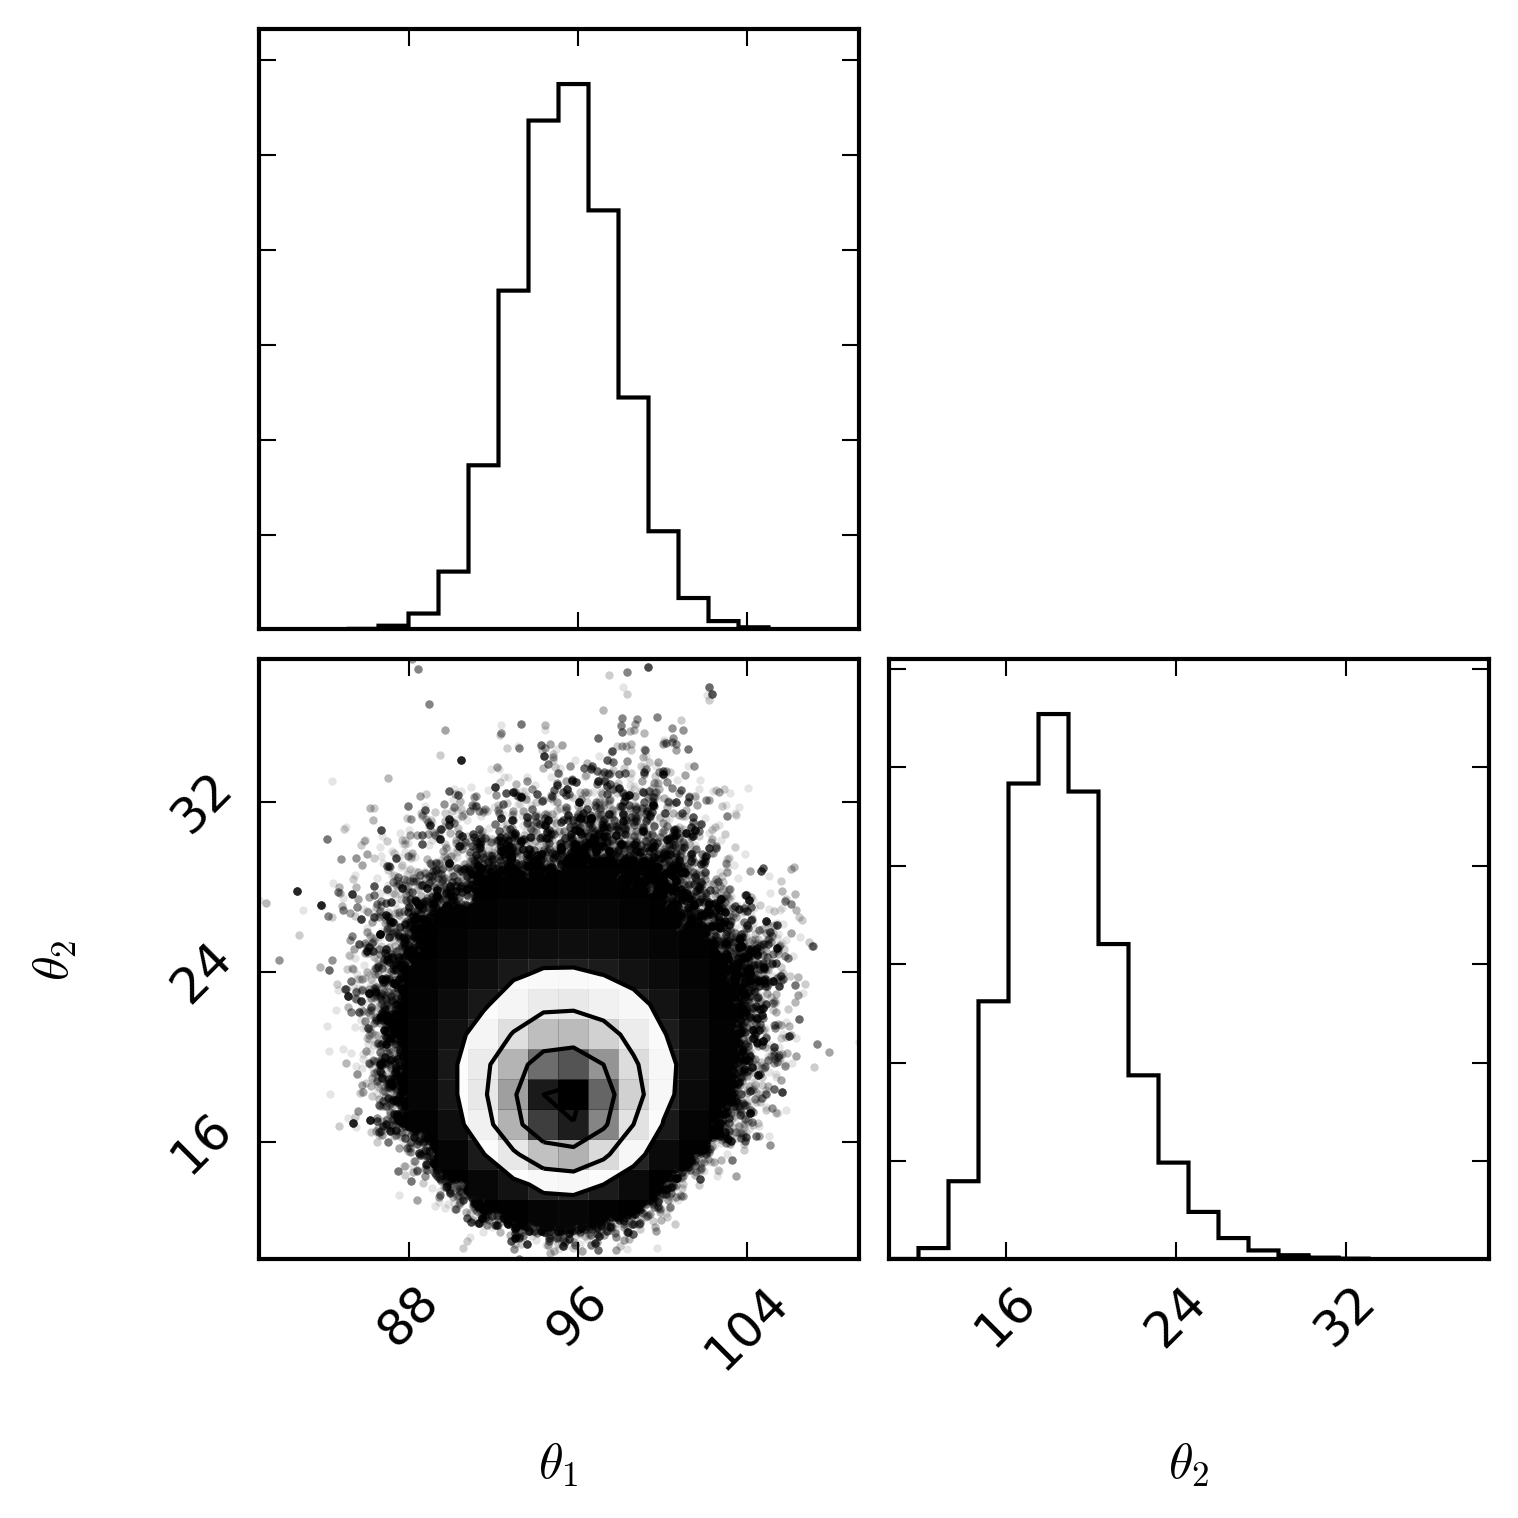
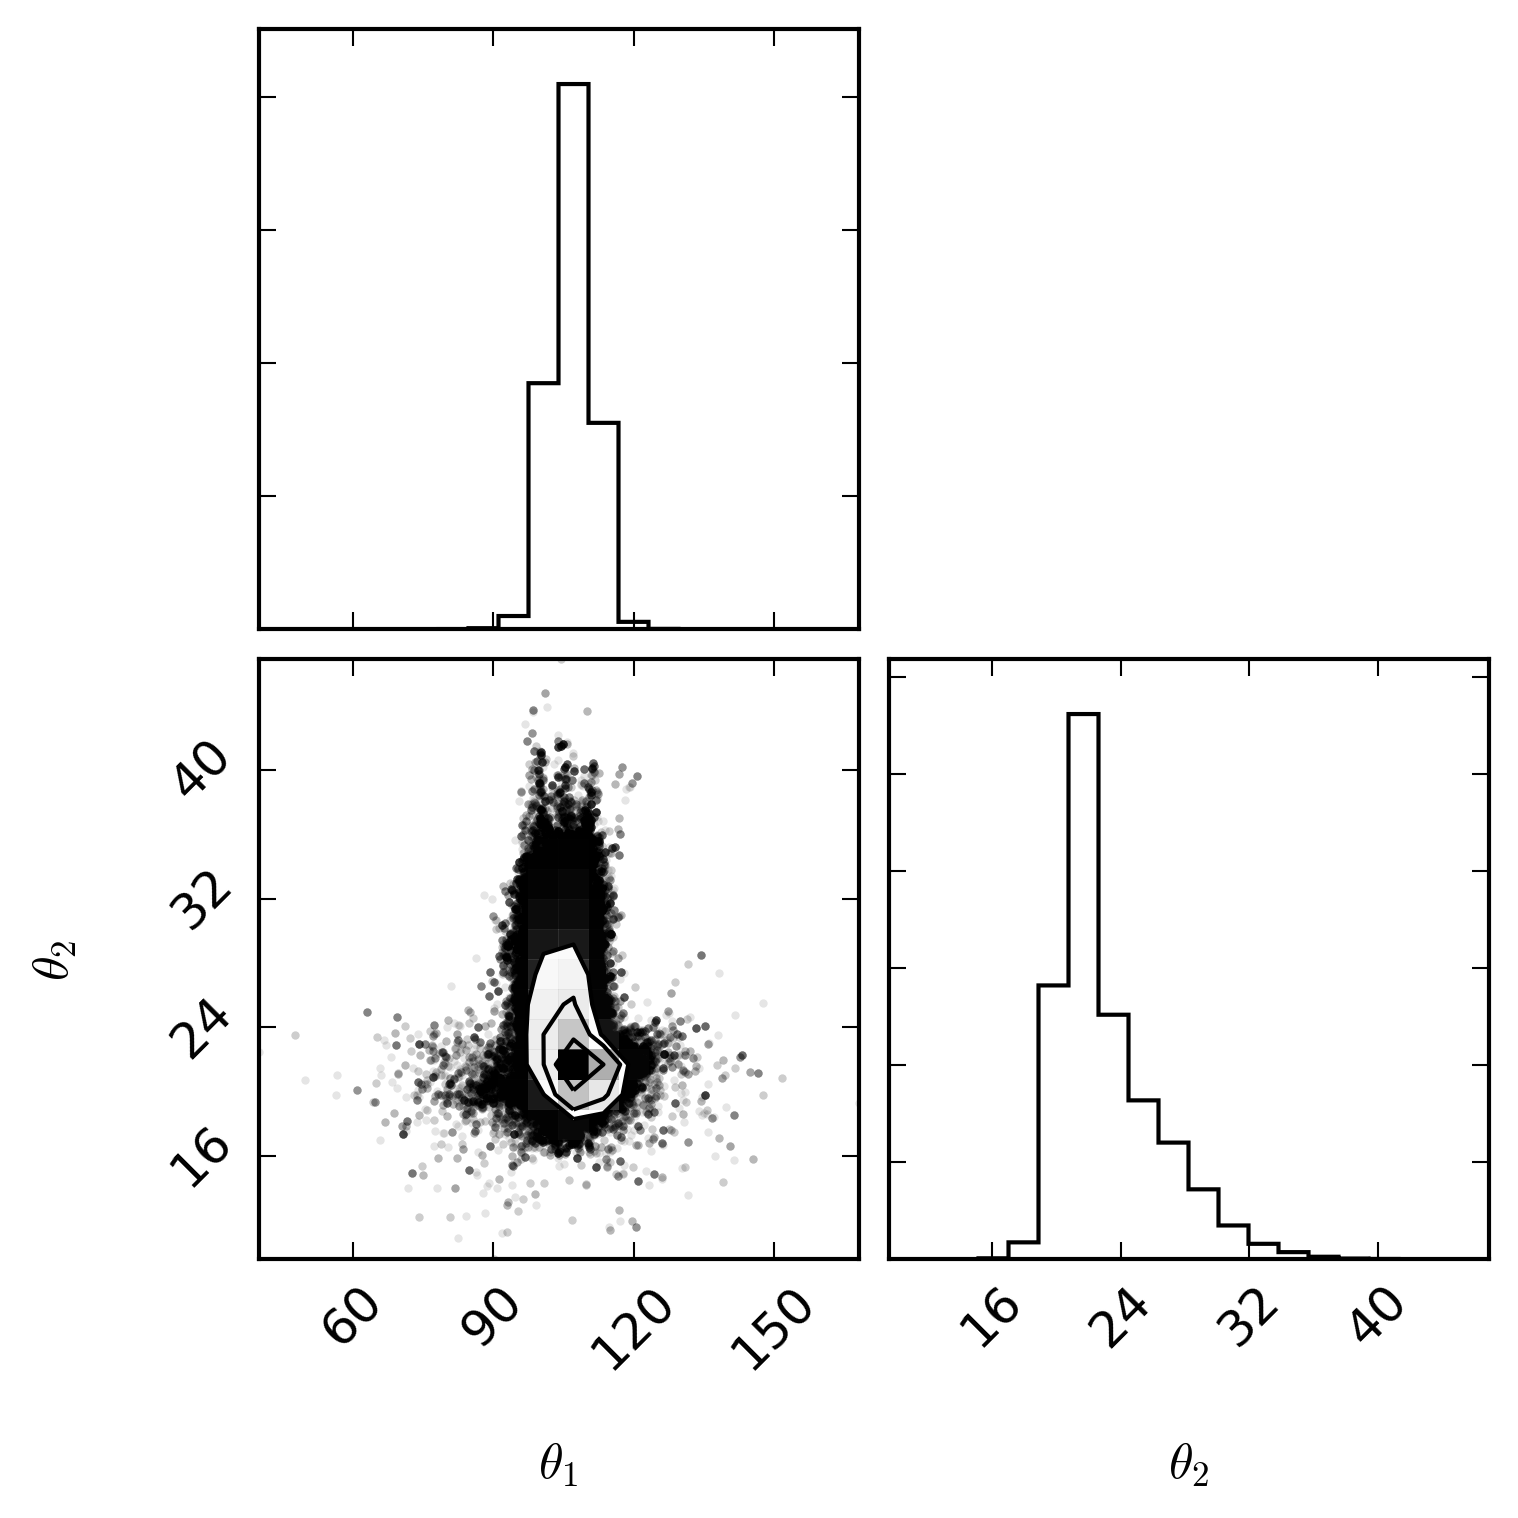
Adding high dimensionality emcee wrapper. Adding support for on the fly fliesystem serialisation. Adding support for MPIpool to automatically run if configured.

diff --git a/dessn/model/model.py b/dessn/model/model.py
@@ -1,6 +1,7 @@
 from dessn.model.node import Node, NodeObserved, NodeLatent, NodeUnderlying, NodeTransformation
 from dessn.model.edge import EdgeTransformation
 from dessn.utility.newtonian import NewtonianPosition
+from dessn.utility.hdemcee import EmceeWrapper
 import numpy as np
 import logging
 import emcee
@@ -9,11 +10,14 @@ import matplotlib.pyplot as plt
 from matplotlib import rc
 import os
 import daft
+from emcee.utils import MPIPool
+import sys
 
 
 class Model(object):
 
-    def __init__(self):
+    def __init__(self, model_name):
+        self.model_name = model_name
         self.logger = logging.getLogger(__name__)
         self.nodes = []
         self.edges = []
@@ -206,11 +210,22 @@ class Model(object):
             pgm.figure.savefig("../../plots/%s" % filename)
 
     def fit_model(self, num_walkers=None, num_steps=30000, num_burn=27000, filename=None):
+        pool = None
+        try:
+            pool = MPIPool()
+            if not pool.is_master():
+                pool.wait()
+                sys.exit(0)
+        except ImportError:
+            self.logger.info("mpi4py is not installed or not configured properly. Ignore if running through python, not mpirun")
+        except ValueError:
+            self.logger.info("Unable to start MPI pool, expected normal python execution")
+
         # TODO: Refactor this section, it should not be encoded in the model
         num_dim = len(self._theta_names)
         self.logger.debug("Fitting model with %d dimensions" % num_dim)
         if num_walkers is None:
-            num_walkers = num_dim * 16
+            num_walkers = num_dim * 8
         start = np.zeros((num_walkers, num_dim))
         self.logger.debug("Generating starting guesses")
         for row in range(num_walkers):
@@ -225,19 +240,11 @@ class Model(object):
 
                 # TODO: Actual start guesses
         self.logger.debug("Running emcee")
-        sampler = emcee.EnsembleSampler(num_walkers, num_dim, self._get_log_posterior, live_dangerously=True)
-        for i, result in enumerate(sampler.sample(start, iterations=num_steps)):
-            if i % 100 == 0:
-                print(i)
-        self.logger.debug("Getting emcee chain")
-        sample = sampler.chain[:, num_burn:, :self._num_actual]  # discard burn-in points
-        sample = sample.reshape((-1, self._num_actual))
-        self.sampler = sampler
-        self.sample = sample
-
-
+        sampler = emcee.EnsembleSampler(num_walkers, num_dim, self._get_log_posterior, pool=pool)
+        emcee_wrapper = EmceeWrapper(sampler, "../../temp/%s" % self.model_name)
+        flat_chain = emcee_wrapper.run_chain(num_steps, num_burn, num_walkers, num_dim, start=start, save_dim=self._num_actual, save_interval=1)
         self.logger.debug("Creating corner plot")
-        fig = corner.corner(sample, labels=self._theta_labels[:self._num_actual])
+        fig = corner.corner(flat_chain, labels=self._theta_labels[:self._num_actual])
         if filename is not None:
             filename = os.path.dirname(__file__) + os.sep + ("../../plots/%s" % filename)
         fig.savefig(filename, bbox_inches='tight', dpi=300)

diff --git a/dessn/utility/hdemcee.py b/dessn/utility/hdemcee.py
@@ -1,0 +1,65 @@
+from time import time
+import logging
+import numpy as np
+
+
+class EmceeWrapper(object):
+    def __init__(self, sampler, filename=None):
+        self.sampler = sampler
+        self.filename = filename
+        self.logger = logging.getLogger(__name__)
+        self.chain = None
+
+    def run_chain(self, num_steps, num_burn, num_walkers, num_dim, start=None, save_interval=300, save_dim=None):
+        assert num_steps > num_burn, "num_steps has to be larger than num_burn"
+        if save_dim is not None:
+            assert save_dim <= num_dim, "You cannot save more dimensions than you actually have"
+        else:
+            save_dim = num_dim
+
+        past_chain = None
+        pos = None
+        if self.filename is not None:
+            chain_file = self.filename + ".chain.npy"
+            position_file = self.filename + ".pos.npy"
+            try:
+                pos = np.load(position_file)
+                print(pos)
+                past_chain = np.load(chain_file)
+                self.logger.info("Found chain of %d steps" % past_chain.shape[1])
+            except IOError:
+                self.logger.info("Prior chain and/or does not exist")
+
+        if start is None and pos is None:
+            raise ValueError("You need to have either a starting position or existing chains")
+
+        if pos is None:
+            pos = start
+
+        step = 0
+        self.chain = np.zeros((num_walkers, num_steps, save_dim))
+        if past_chain is not None and past_chain.shape[1] <= num_steps:
+            step = past_chain.shape[1]
+            print(step)
+            num = num_steps - step
+            print(num)
+            self.chain[:, :step, :] = past_chain
+        else:
+            num = num_steps
+
+        t = time()
+        for result in self.sampler.sample(pos, iterations=num, storechain=False):
+            self.chain[:, step, :] = result[0][:, :save_dim]
+            step += 1
+            if self.filename is not None:
+                t2 = time()
+                if t2 - t > save_interval or step == num_steps:
+                    t = t2
+                    position = result[0]
+                    np.save(position_file, position)
+                    np.save(chain_file, self.chain[:, :step, :])
+                    self.logger.debug("Saving chain with %d steps" % step)
+        return self.get_results()
+
+    def get_results(self):
+        return self.chain.reshape((-1, self.chain.shape[2]))

diff --git a/dessn/simple/exampleLatentClass.py b/dessn/simple/exampleLatentClass.py
@@ -76,7 +76,7 @@ class ExampleModel(Model):
     """
 
     def __init__(self):
-        super(ExampleModel, self).__init__()
+        super(ExampleModel, self).__init__("ExampleModel")
 
         n = 30
 
@@ -100,4 +100,4 @@ if __name__ == "__main__":
     logging.basicConfig(level=logging.DEBUG)
     exampleModel = ExampleModel()
     exampleModel.get_pgm("examplePGM.png")
-    # exampleModel.fit_model(num_steps=5000, num_burn=2500, filename="exampleLatentClass")
+    exampleModel.fit_model(num_steps=3000, num_burn=2500, filename="exampleLatentClass")
